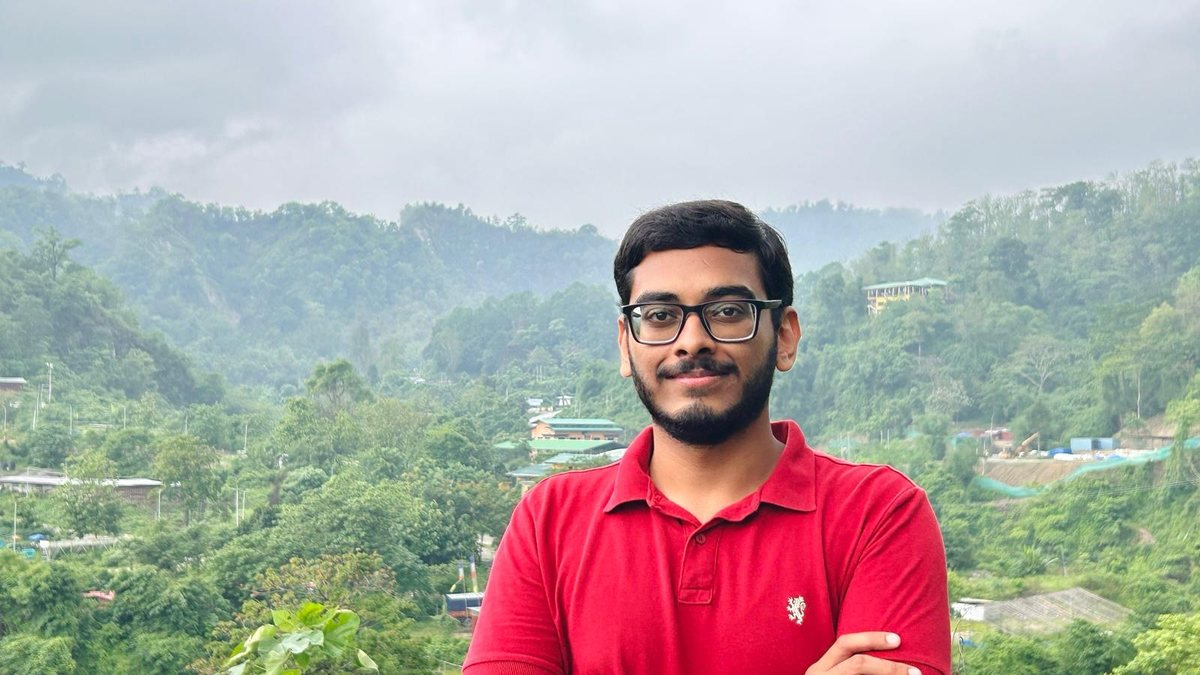
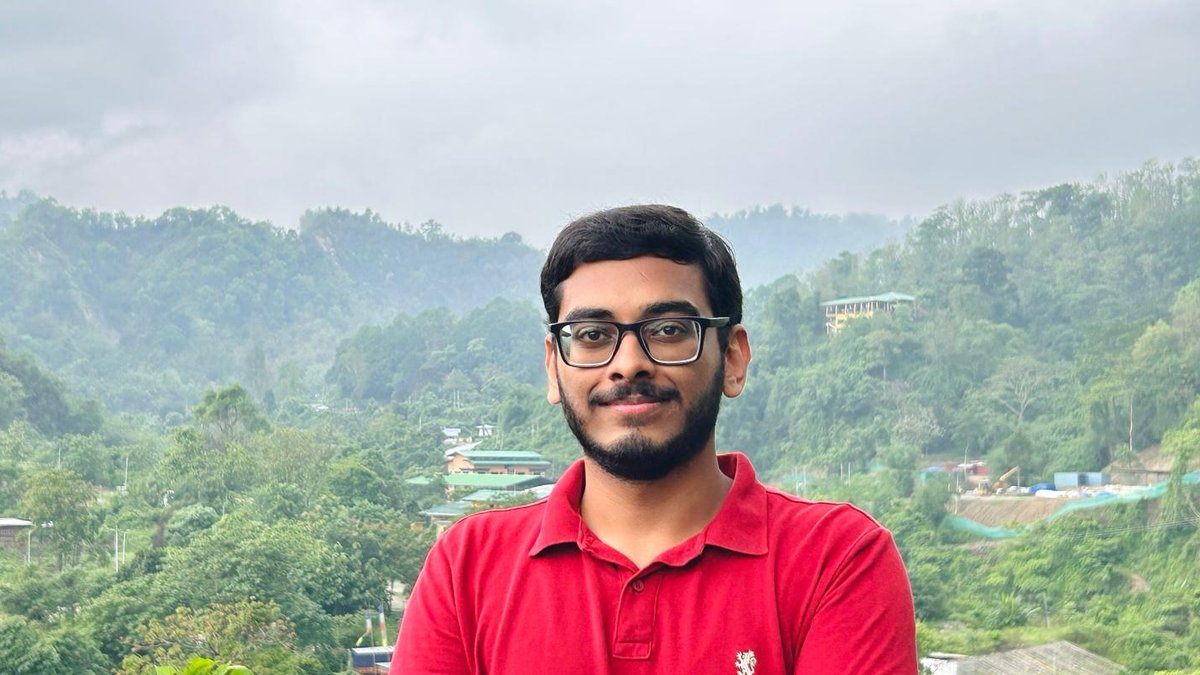
Use the full tanCAR structure and give the About photos more height
- Replaces the AlphaFold3 banner with the full tandem CAR complex supplied
  by Chinmay, composited onto black. The previous image was a flat capture
  of a slide whose right-hand zoomed interface is revealed by animation,
  so as a still it read as two unrelated structures.
- About strip switched to square tiles with headroom, so nobody is cropped
  at the top; the three photos are regenerated to match.
- Home cards: the Bhutan portrait is reframed left and higher, and the
  Design card now uses a light-painting photograph instead of a poster
  whose lettering was clipped at card size.

Claude-Session: https://claude.ai/code/session_01MXCb4RcsnikfZDJBMEVNH6

diff --git a/index.html b/index.html
@@ -83,7 +83,7 @@
     <h2>Four ways into the work</h2>
     <div class="cards">
       <a class="card" href="research.html">
-        <img src="img/card-research.jpg" width="1200" height="675" alt="AlphaFold3 model of a tandem CAR scFv engaging two tumour antigens at the same time" loading="lazy">
+        <img src="img/card-research.jpg" width="1200" height="675" alt="AlphaFold3 model of the full tandem CAR complex bound to its two target antigens" loading="lazy">
         <div class="body">
           <h3>Research</h3>
           <p>The M.Tech thesis on dual CAR-NK design for breast cancer, the molecular biology work at AIIMS New Delhi, and a pharmacogenomics study of adverse drug reactions.</p>
@@ -99,7 +99,7 @@
         </div>
       </a>
       <a class="card" href="about.html">
-        <img src="img/card-about.jpg" width="1200" height="675" alt="Chinmay Arora in the hills around Guwahati" loading="lazy">
+        <img src="img/card-about.jpg" width="1200" height="675" alt="Chinmay Arora in Samdrup Jongkhar, Bhutan" loading="lazy">
         <div class="body">
           <h3>About</h3>
           <p>Education, teaching, the toolkit I actually use, awards, and the societies and conclaves I have helped run.</p>
@@ -107,7 +107,7 @@
         </div>
       </a>
       <a class="card" href="design.html">
-        <img src="img/card-design.jpg" width="1200" height="675" alt="Poster designed for the Paridrishya photography society at DPSRU" loading="lazy">
+        <img src="img/card-design.jpg" width="760" height="428" alt="Neon light-painting photograph made with a long exposure" loading="lazy">
         <div class="body">
           <h3>Design &amp; media</h3>
           <p>Six years of posters, campaigns, brand work and event photography for university societies, a national conclave and a pharmacy brand.</p>

diff --git a/about.html b/about.html
@@ -88,10 +88,10 @@
       <li>Ran hands-on bioinformatics tutorials, including R programming and survival analysis, for Master's and PhD students.</li>
       <li>Peer mentor at the Saathi Counselling Cell, supporting students on academics and time management.</li>
     </ul>
-    <div class="strip" style="grid-template-columns:repeat(3,minmax(0,1fr))">
-      <figure><img src="img/teaching.jpg" alt="Chinmay teaching an introduction to R and RStudio to a class" loading="lazy"><figcaption>Teaching R, IIT Guwahati</figcaption></figure>
-      <figure><img src="img/dpsru-convocation.jpg" alt="Chinmay at the DPSRU convocation holding his degree folder" loading="lazy"><figcaption>B.Pharm convocation, DPSRU</figcaption></figure>
-      <figure><img src="img/bhutan.jpg" alt="Chinmay Arora with forested hills behind him in Samdrup Jongkhar, Bhutan" loading="lazy"><figcaption>Samdrup Jongkhar, Bhutan</figcaption></figure>
+    <div class="strip strip-tall" style="grid-template-columns:repeat(3,minmax(0,1fr))">
+      <figure><img src="img/teaching.jpg" width="1100" height="1100" alt="Chinmay teaching an introduction to R and RStudio to a class" loading="lazy"><figcaption>Teaching R, IIT Guwahati</figcaption></figure>
+      <figure><img src="img/dpsru-convocation.jpg" width="1100" height="1100" alt="Chinmay at the DPSRU convocation holding his degree folder" loading="lazy"><figcaption>B.Pharm convocation, DPSRU</figcaption></figure>
+      <figure><img src="img/bhutan.jpg" width="1100" height="1100" alt="Chinmay Arora with forested hills behind him in Samdrup Jongkhar, Bhutan" loading="lazy"><figcaption>Samdrup Jongkhar, Bhutan</figcaption></figure>
     </div>
   </div>
 </section>

diff --git a/research.html b/research.html
@@ -54,8 +54,8 @@
 <section style="padding-top:40px">
   <div class="wrap">
     <figure class="fig-band" style="margin-top:0">
-      <img src="img/structure.jpg" width="1600" height="451" alt="AlphaFold3 model of a tandem CAR scFv engaging CEACAM5 and CLDN9 at the same time, with both antigen interfaces highlighted" loading="lazy">
-      <figcaption class="small">AlphaFold3 prediction of simultaneous dual-antigen engagement for the top-ranked CEACAM5–CLDN9 pair.</figcaption>
+      <img src="img/structure.jpg" width="1400" height="696" alt="AlphaFold3 model of the full tandem CAR complex, with two scFv domains joined by a linker and bound to their antigens" loading="lazy">
+      <figcaption class="small">AlphaFold3 model of the full tandem CAR construct engaging both of its target antigens.</figcaption>
     </figure>
 
     <div class="split">

diff --git a/style.css b/style.css
@@ -129,6 +129,7 @@ figcaption{margin-top:8px;color:var(--fg-3)}
 .strip{display:grid;grid-template-columns:repeat(4,minmax(0,1fr));gap:14px;margin-top:38px}
 .strip figure{display:flex;flex-direction:column}
 .strip img{width:100%;aspect-ratio:4/3;object-fit:cover;border-radius:2px}
+.strip-tall img{aspect-ratio:1/1}
 .strip figcaption{font-size:13px;color:var(--fg-3);margin-top:8px}
 .head-row{display:flex;flex-wrap:wrap;justify-content:space-between;align-items:flex-end;gap:16px}
 .bullets{margin:14px 0 0;padding-left:18px;color:var(--fg-2);font-size:15px}
